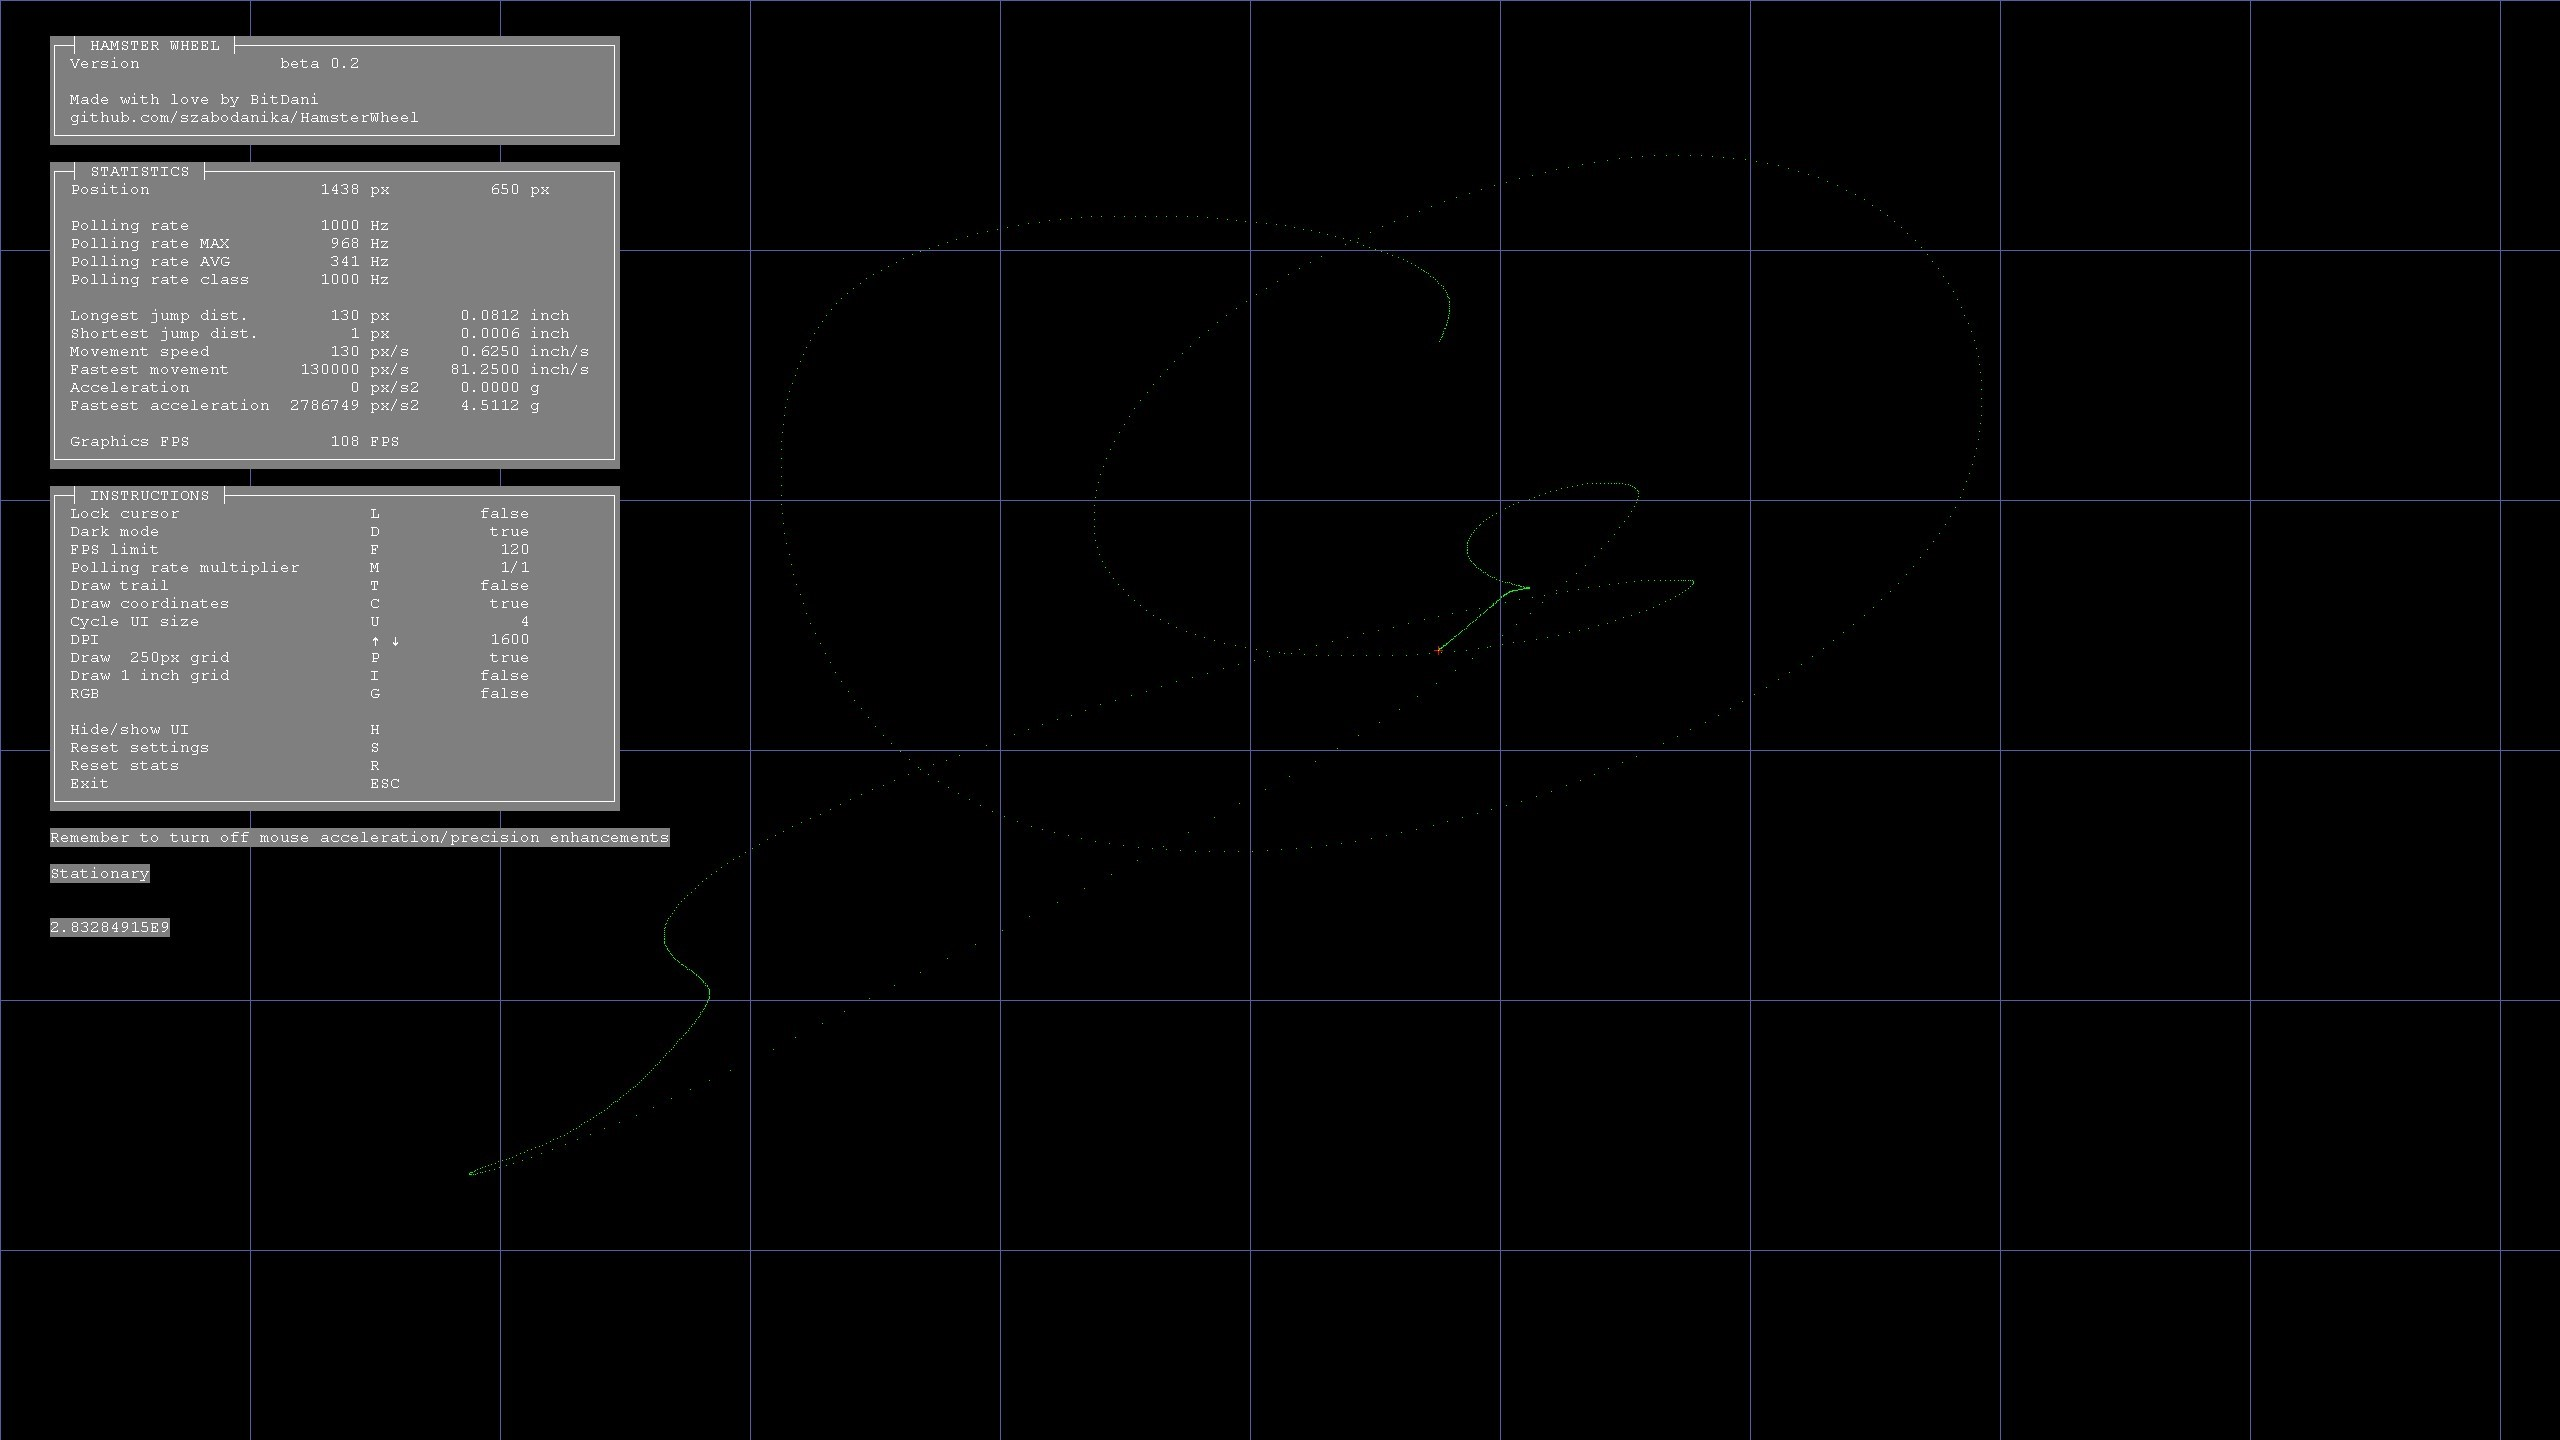
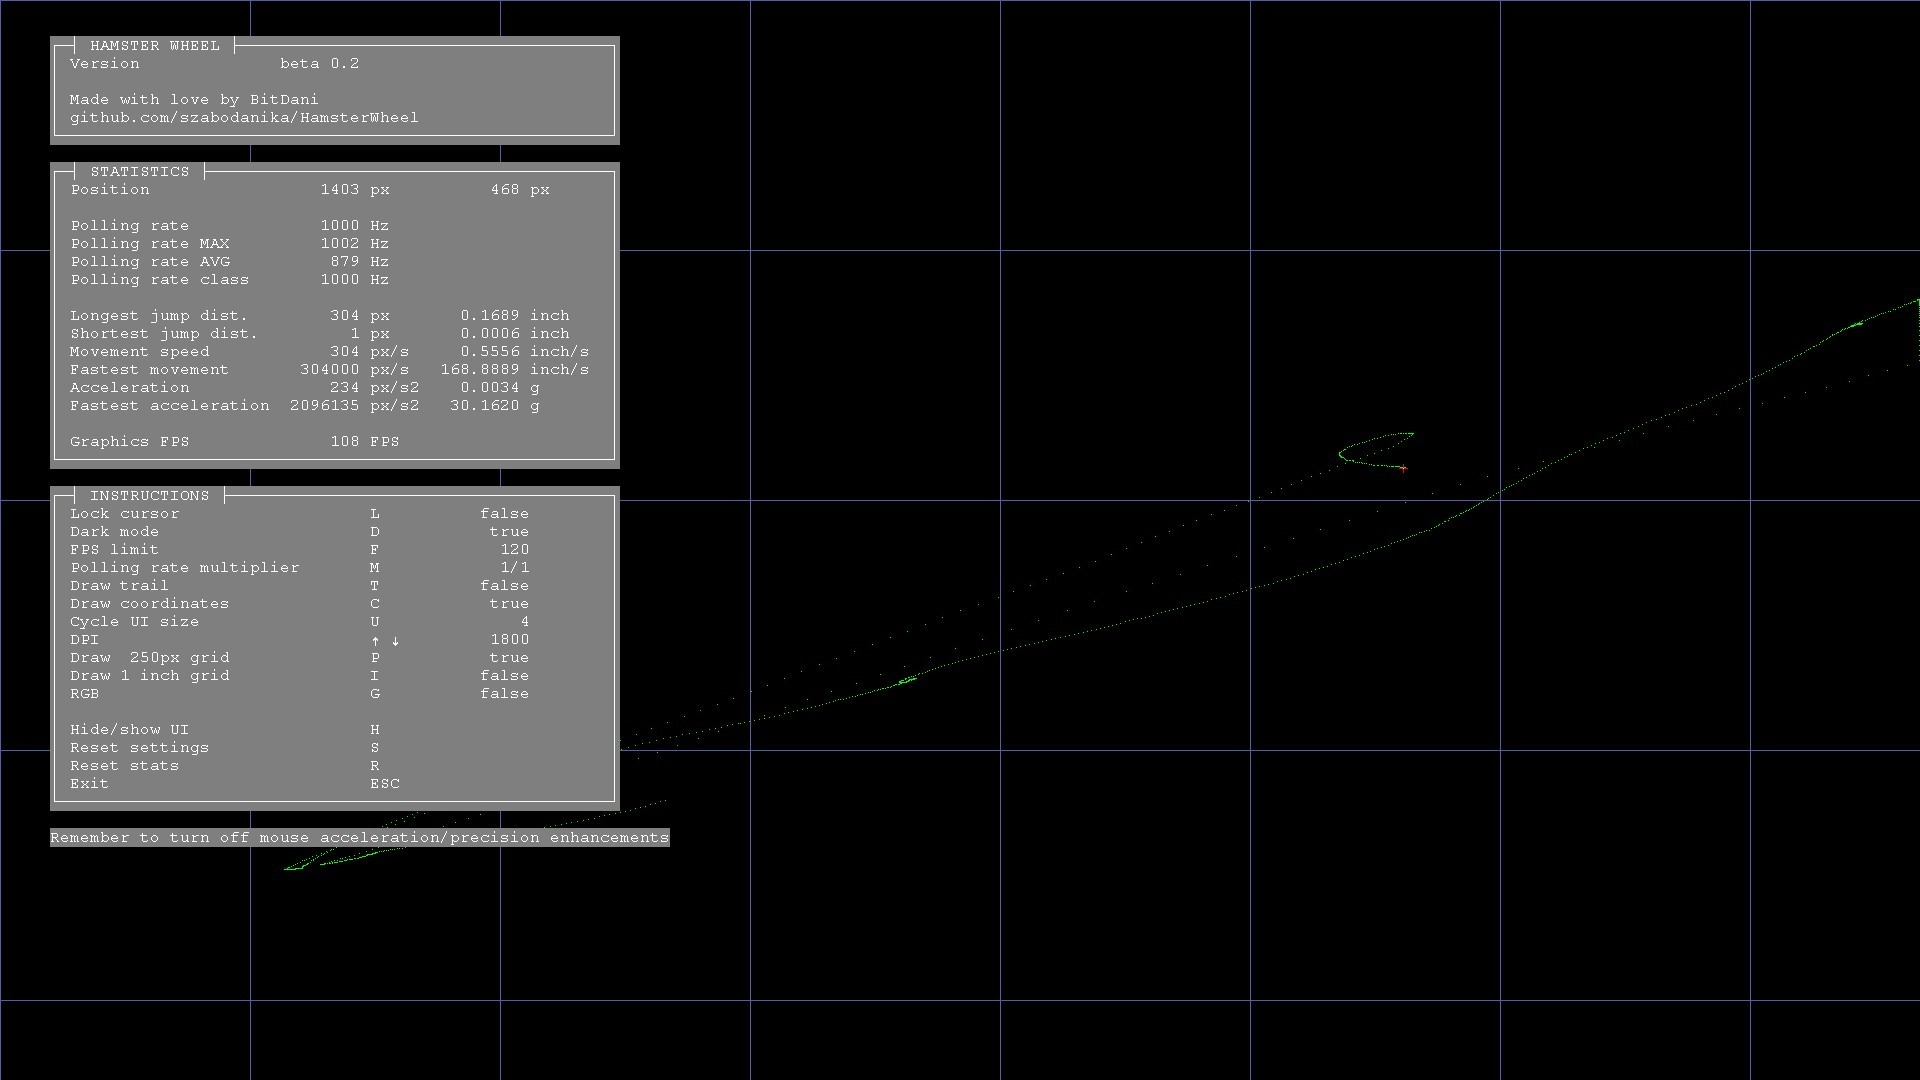
- quick refactor - replaced screenshot1.jpg

Changed region(s): [[0.0, 0.0, 0.3438, 0.7944]]

diff --git a/src/hamsterwheel/MouseCapturePanel.java b/src/hamsterwheel/MouseCapturePanel.java
@@ -1,3 +1,5 @@
+package hamsterwheel;
+
 import javax.swing.*;
 import java.awt.*;
 import java.awt.event.KeyEvent;
@@ -33,7 +35,6 @@ public class MouseCapturePanel extends JPanel implements KeyListener {
     private long lastTimeMoved = System.nanoTime();
     private long lastTimeStationary = System.nanoTime();
     private List<Integer> buttonsPressed = new ArrayList<>();
-    float dt;
 
     public MouseCapturePanel() throws AWTException {
         this.setFocusable(true);
@@ -87,7 +88,7 @@ public class MouseCapturePanel extends JPanel implements KeyListener {
             float dx = Math.abs(position.x - lastPosition.x);
             float dy = Math.abs(position.y - lastPosition.y);
             int currentspeed = pollingRateClass * (int) Math.sqrt(dx * dx + dy * dy);
-            dt = System.nanoTime() - lastTimeStationary;
+            float dt = System.nanoTime() - lastTimeStationary;
             // don't bother calculating acceleration for the first 20ms of movement
             if (dt > 20000000) {
                 currentAcceleration = (int) (currentspeed / dt * 1000000000);
@@ -233,8 +234,8 @@ public class MouseCapturePanel extends JPanel implements KeyListener {
         stringBuilder.append("│ Shortest jump dist.  %8d px     %8.4f inch    │\n".formatted(shortestJump == Integer.MAX_VALUE ? 0 : shortestJump, (float) (shortestJump == Integer.MAX_VALUE ? 0 : shortestJump) / mouseLocator.getDpi()));
         stringBuilder.append("│ Movement speed       %8d px/s   %8.4f inch/s  │\n".formatted(lastJump * longestJump, (float) pollingRateClass * lastJump / mouseLocator.getDpi()));
         stringBuilder.append("│ Fastest movement     %8d px/s   %8.4f inch/s  │\n".formatted(pollingRateClass * longestJump, (float) pollingRateClass * longestJump / mouseLocator.getDpi()));
-        stringBuilder.append("│ Acceleration         %8d px/s2  %8.4f g       │\n".formatted(currentAcceleration, ((float) currentAcceleration / mouseLocator.getDpi()) * 0.0025900792));
-        stringBuilder.append("│ Fastest acceleration %8d px/s2  %8.4f g       │\n".formatted(highestAcceleration, ((float) highestAcceleration / mouseLocator.getDpi() * 0.0025900792)));
+        stringBuilder.append("│ Acceleration         %8d px/s2  %8.4f g       │\n".formatted(currentAcceleration, ((float) currentAcceleration / mouseLocator.getDpi()) * 0.025900792));
+        stringBuilder.append("│ Fastest acceleration %8d px/s2  %8.4f g       │\n".formatted(highestAcceleration, ((float) highestAcceleration / mouseLocator.getDpi() * 0.025900792)));
         stringBuilder.append("│                                                       │\n");
         stringBuilder.append("│ Graphics FPS         %8d FPS                     │\n".formatted(fps));
         stringBuilder.append("└───────────────────────────────────────────────────────┘\n");
@@ -262,7 +263,6 @@ public class MouseCapturePanel extends JPanel implements KeyListener {
         if (lockCursor) stringBuilder.append("\nUnlock cursor for accurate poll rate readings\n");
         if (stationary) stringBuilder.append("\nStationary\n");
 
-        stringBuilder.append("\n\n" + dt);
         for (int i = 0; i < buttonsPressed.size(); i++) {
             stringBuilder.append("\nButton %d pressed".formatted(buttonsPressed.get(i)));
         }

diff --git a/src/hamsterwheel/Controller.java b/src/hamsterwheel/Controller.java
@@ -1,3 +1,5 @@
+package hamsterwheel;
+
 public class Controller {
 
     public static final String VERSION = "beta 0.2";

diff --git a/src/hamsterwheel/MainFrame.java b/src/hamsterwheel/MainFrame.java
@@ -1,3 +1,5 @@
+package hamsterwheel;
+
 import javax.swing.*;
 import java.awt.*;
 import java.awt.image.BufferedImage;

diff --git a/src/hamsterwheel/MouseLocator.java b/src/hamsterwheel/MouseLocator.java
@@ -1,3 +1,5 @@
+package hamsterwheel;
+
 import java.awt.*;
 import java.util.function.Consumer;
 
